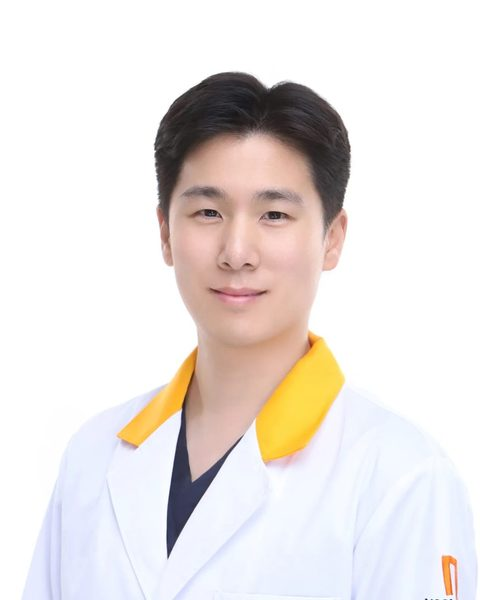
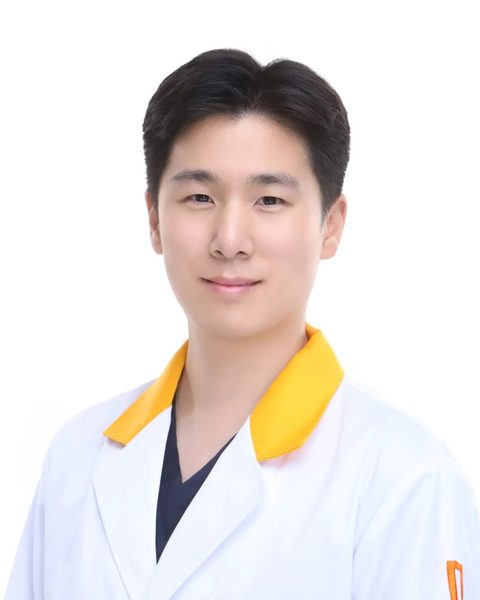
v5.3.0 · 의료진 사진 얼굴 상자 기준 재정렬 · Location 카드+구글 지도를 모든 페이지에 · 라미네이트 → 비니어(최소삭제 라미네이트)
- assets/images/doctors/v5: 얼굴 인식 상자 높이로 크기 · 위치 통일, 어깨까지 꽉 차게
- template-parts/v5-location.php: 홈 · 모든 페이지 하단 · 오시는 길 페이지 지도 칸 공통
- 한국어 화면 글자: 첫 번째 「비니어(최소삭제 라미네이트)」, 뒤는 「비니어」 (무삭제 · 최소삭제 구분 유지, meta · 주소는 그대로)

diff --git a/wp-content/themes/moondental-child/template-parts/v5-location.php b/wp-content/themes/moondental-child/template-parts/v5-location.php
@@ -1,0 +1,33 @@
+<?php
+/**
+ * v5.3 · 원장 지시 · 「Location 카드 + 구글 지도」 — 홈 · 모든 페이지 하단 · 오시는 길 페이지 공통
+ *
+ * @package moondental-child
+ */
+$info  = function_exists( 'moondental_get_info' ) ? moondental_get_info() : array();
+$mc    = function ( $k, $d = '' ) { return function_exists( 'md_content' ) ? md_content( $k, $d ) : $d; };
+$place = 'https://map.naver.com/p/entry/place/12772165';
+$kakao = 'https://map.kakao.com/?q=%ED%95%9C%EC%95%84%EC%9D%98%EB%A3%8C%EC%9E%AC%EB%8B%A8%20%EB%AC%B8%EC%B9%98%EA%B3%BC%EB%B3%91%EC%9B%90';
+$goog  = 'https://maps.app.goo.gl/MNt59kcxeKL92nCU9';
+$gmap  = $mc( 'loc_gmap_embed_url', 'https://www.google.com/maps?q=%EB%AC%B8%EC%B9%98%EA%B3%BC%EB%B3%91%EC%9B%90%20%EC%B2%9C%EC%95%88%20%EB%A7%8C%EB%82%A8%EB%A1%9C%2052&z=16&output=embed&hl=ko' );
+$addr  = $mc( 'info_address', $info['address'] ?? '' );
+if ( ! $addr ) $addr = '충청남도 천안시 동남구 만남로 52, 문타워 9~13층';
+$id    = isset( $args['id'] ) ? (string) $args['id'] : '';
+?>
+<section class="v5-mapsec"<?php echo $id ? ' id="' . esc_attr( $id ) . '"' : ''; ?> aria-label="<?php echo esc_attr( $mc( 'aria_sec_location', '오시는 길' ) ); ?>">
+	<div class="v5-wrap v5-mapgrid">
+		<div class="v5-mapcard">
+			<span class="v5-label">Location</span>
+			<p class="v5-mapcard__addr"><a href="<?php echo esc_url( $place ); ?>" target="_blank" rel="noopener" data-track="cta-v5-location-addr"><?php echo esc_html( $addr ); ?></a></p>
+			<p class="v5-mapcard__note">천안고속 · 시외버스터미널 맞은편 터미널사거리</p>
+			<div class="v5-maps">
+				<a href="<?php echo esc_url( $place ); ?>" target="_blank" rel="noopener" data-track="cta-v5-location-naver"><?php echo esc_html( $mc( 'flocation_btn_naver', '네이버 지도' ) ); ?></a>
+				<a href="<?php echo esc_url( $kakao ); ?>" target="_blank" rel="noopener" data-track="cta-v5-location-kakao"><?php echo esc_html( $mc( 'flocation_btn_kakao', '카카오맵' ) ); ?></a>
+				<a href="<?php echo esc_url( $goog ); ?>" target="_blank" rel="noopener" data-track="cta-v5-location-google"><?php echo esc_html( $mc( 'flocation_btn_google', 'Google Maps' ) ); ?></a>
+			</div>
+		</div>
+		<div class="v5-mapbox">
+			<iframe src="<?php echo esc_url( $gmap ); ?>" title="<?php echo esc_attr( $mc( 'loc_gmap_iframe_title', '문치과병원 구글 지도' ) ); ?>" loading="lazy" referrerpolicy="no-referrer-when-downgrade" allowfullscreen></iframe>
+		</div>
+	</div>
+</section>

diff --git a/wp-content/themes/moondental-child/inc/design-v5.php b/wp-content/themes/moondental-child/inc/design-v5.php
@@ -179,3 +179,44 @@ add_action( 'template_redirect', function () {
 		return md_v5_strip_emoji( $html );
 	} );
 }, 1 );
+
+/* v5.3 · 원장 지시 · 「라미네이트」 → 「비니어(최소삭제 라미네이트)」 (한국어 화면 글자만)
+ *   첫 번째 → 비니어(최소삭제 라미네이트), 그 뒤 → 비니어 (머리 · 본문 따로 셈)
+ *   「최소침습 / 최소삭제 라미네이트」 · 「라미네이트(Laminate)」 는 한 덩어리로 바꾸고
+ *   「무삭제 라미네이트」 는 「무삭제 비니어」 (최소삭제와 뜻이 어긋나지 않게)
+ *   검색 설명(meta) · 주소 · 속성값은 그대로 → 「라미네이트」 검색어는 유지 */
+function md_v5_veneer_text( $text, &$first ) {
+	return preg_replace_callback(
+		'/(무삭제\s?)?(최소\s?(?:삭제|침습)\s?(?:·\s?무삭제\s?)?)?라미네이트(?:\s?\((?:[Ll]aminate|LAMINATE)[^)]*\))?/u',
+		function ( $m ) use ( &$first ) {
+			if ( ! empty( $m[1] ) ) return $m[1] . '비니어';
+			if ( $first ) { $first = false; return '비니어(최소삭제 라미네이트)'; }
+			return ! empty( $m[2] ) ? '최소삭제 비니어' : '비니어';
+		},
+		$text
+	);
+}
+function md_v5_veneer( $html ) {
+	if ( strpos( $html, '라미네이트' ) === false ) return $html;
+	$parts = preg_split( '#(<script\b.*?</script>|<style\b.*?</style>|<textarea\b.*?</textarea>|<[^>]+>)#is', $html, -1, PREG_SPLIT_DELIM_CAPTURE );
+	if ( ! is_array( $parts ) ) return $html;
+	$first_head = true; $first_body = true; $in_body = false;
+	foreach ( $parts as $i => $p ) {
+		if ( $p === '' ) continue;
+		if ( $p[0] === '<' ) { if ( ! $in_body && stripos( $p, '<body' ) === 0 ) $in_body = true; continue; }
+		if ( strpos( $p, '라미네이트' ) === false ) continue;
+		if ( $in_body ) $parts[ $i ] = md_v5_veneer_text( $p, $first_body );
+		else            $parts[ $i ] = md_v5_veneer_text( $p, $first_head );
+	}
+	return implode( '', $parts );
+}
+add_action( 'template_redirect', function () {
+	if ( is_admin() || ! md_v5() || is_feed() ) return;
+	if ( ( defined( 'REST_REQUEST' ) && REST_REQUEST ) || wp_doing_ajax() ) return;
+	if ( function_exists( 'moondental_current_language' ) && 'ko' !== moondental_current_language() ) return;
+	if ( function_exists( 'md_sup_is_page' ) && md_sup_is_page() ) return;
+	ob_start( function ( $html ) {
+		if ( ! is_string( $html ) || stripos( $html, '<html' ) === false ) return $html;
+		return md_v5_veneer( $html );
+	} );
+}, 2 );

diff --git a/wp-content/themes/moondental-child/page-templates/page-location.php b/wp-content/themes/moondental-child/page-templates/page-location.php
@@ -210,6 +210,7 @@ $off_text = $info['hours_off'] ?: '휴진';
 </section>
 
 <!-- ============ 2. 지도 + 3 맵 버튼 ============ -->
+<?php if ( function_exists( 'md_v5' ) && md_v5() ) : get_template_part( 'template-parts/v5-location', null, array( 'id' => 'map' ) ); else : /* v5.3 */ ?>
 <section class="md-section md-section--tight" id="map">
 	<div class="md-container">
 		<?php /* v3.98.3 · 상단 지도 = 구글 지도 임베드 (API 키·결제 불필요). Customizer URL 을 비우면 예전 네이버 이미지 타일 */
@@ -259,6 +260,7 @@ $off_text = $info['hours_off'] ?: '휴진';
 		</div>
 	</div>
 </section>
+<?php endif; ?>
 
 <?php /* v3.99 · 주변 랜드마크 · 편의 시설 — Customizer 「오시는 길」에서 편집 (한 줄에 하나 · 아이콘|이름|소요시간|네이버 검색어 / 아이콘|이름|설명) */
 $md_lines  = function ( $raw ) { $out = array(); foreach ( preg_split( '/\r?\n/', (string) $raw ) as $l ) { $l = trim( $l ); if ( $l === '' ) continue; $out[] = array_map( 'trim', explode( '|', $l ) ); } return $out; };

diff --git a/wp-content/themes/moondental-child/functions.php b/wp-content/themes/moondental-child/functions.php
@@ -13,7 +13,7 @@ if ( ! defined( 'ABSPATH' ) ) {
 	exit;
 }
 
-define( 'MOONDENTAL_VERSION', '5.2.0' );
+define( 'MOONDENTAL_VERSION', '5.3.0' );
 
 /* v3.43.2 · 다국어 URL 접두어 · Polylang 리다이렉트 루프 회피
  *
